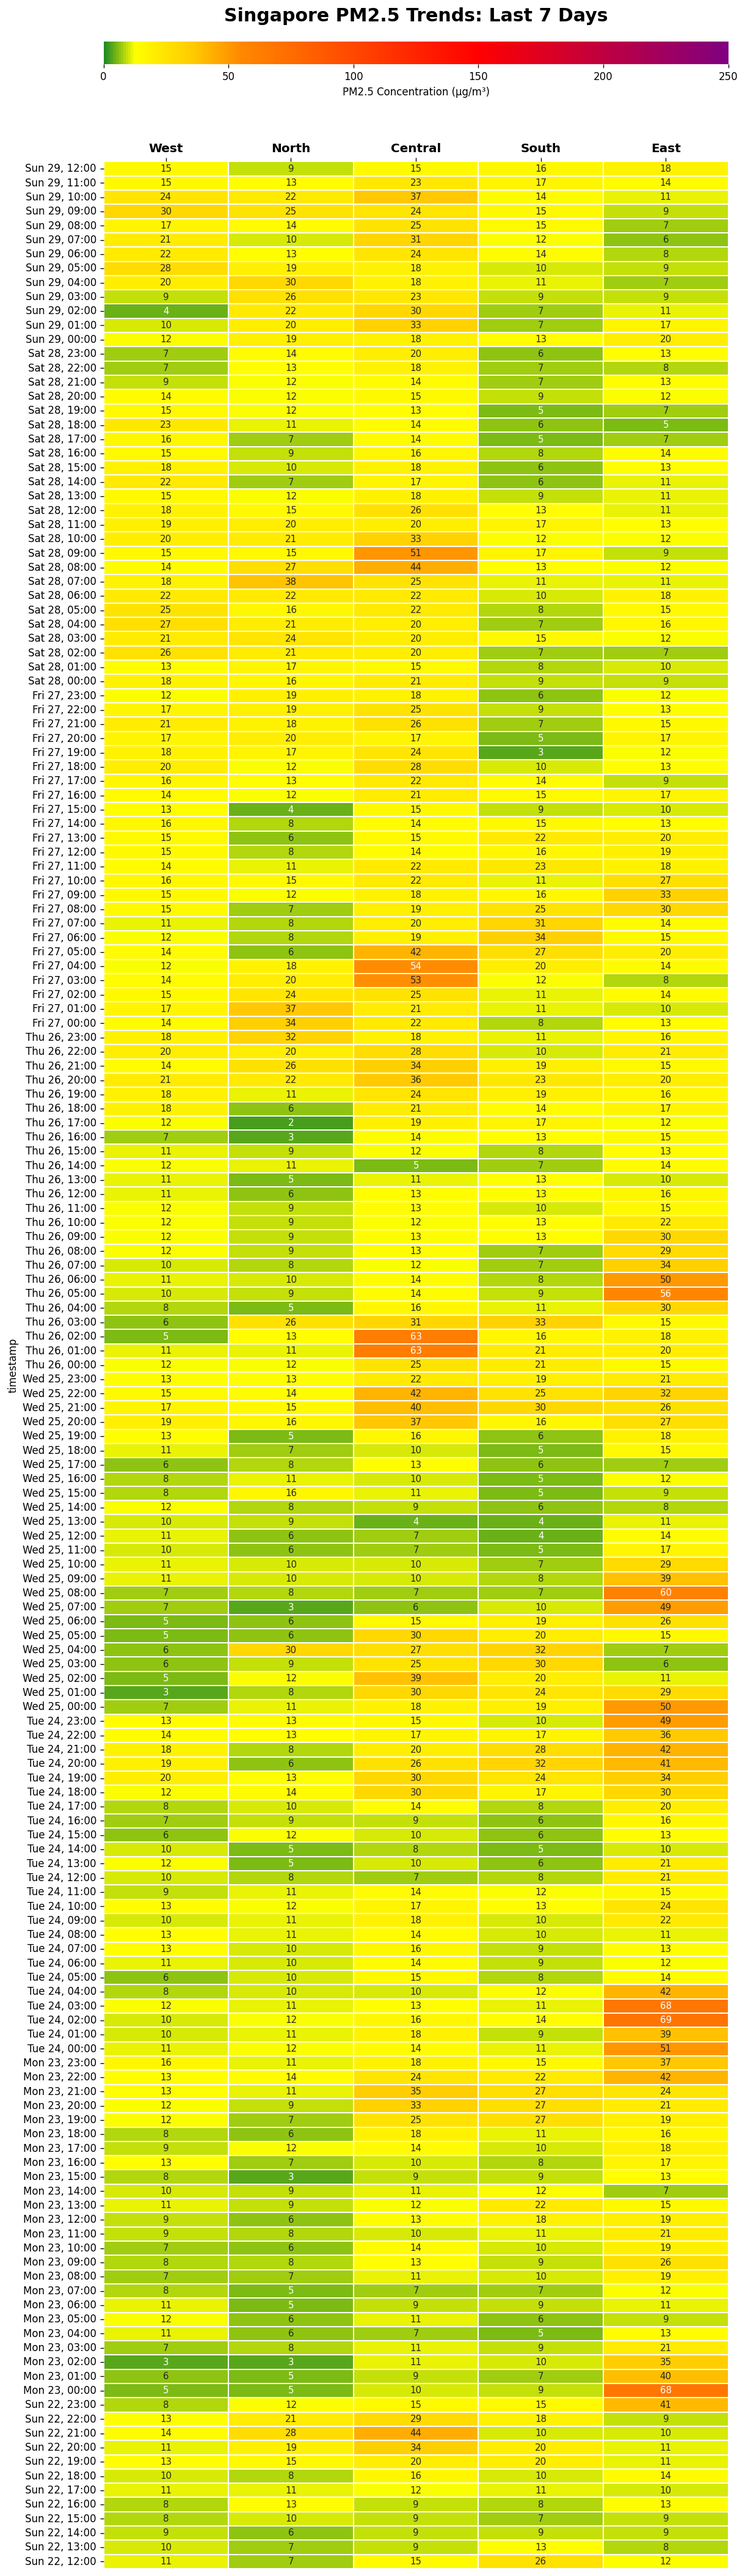
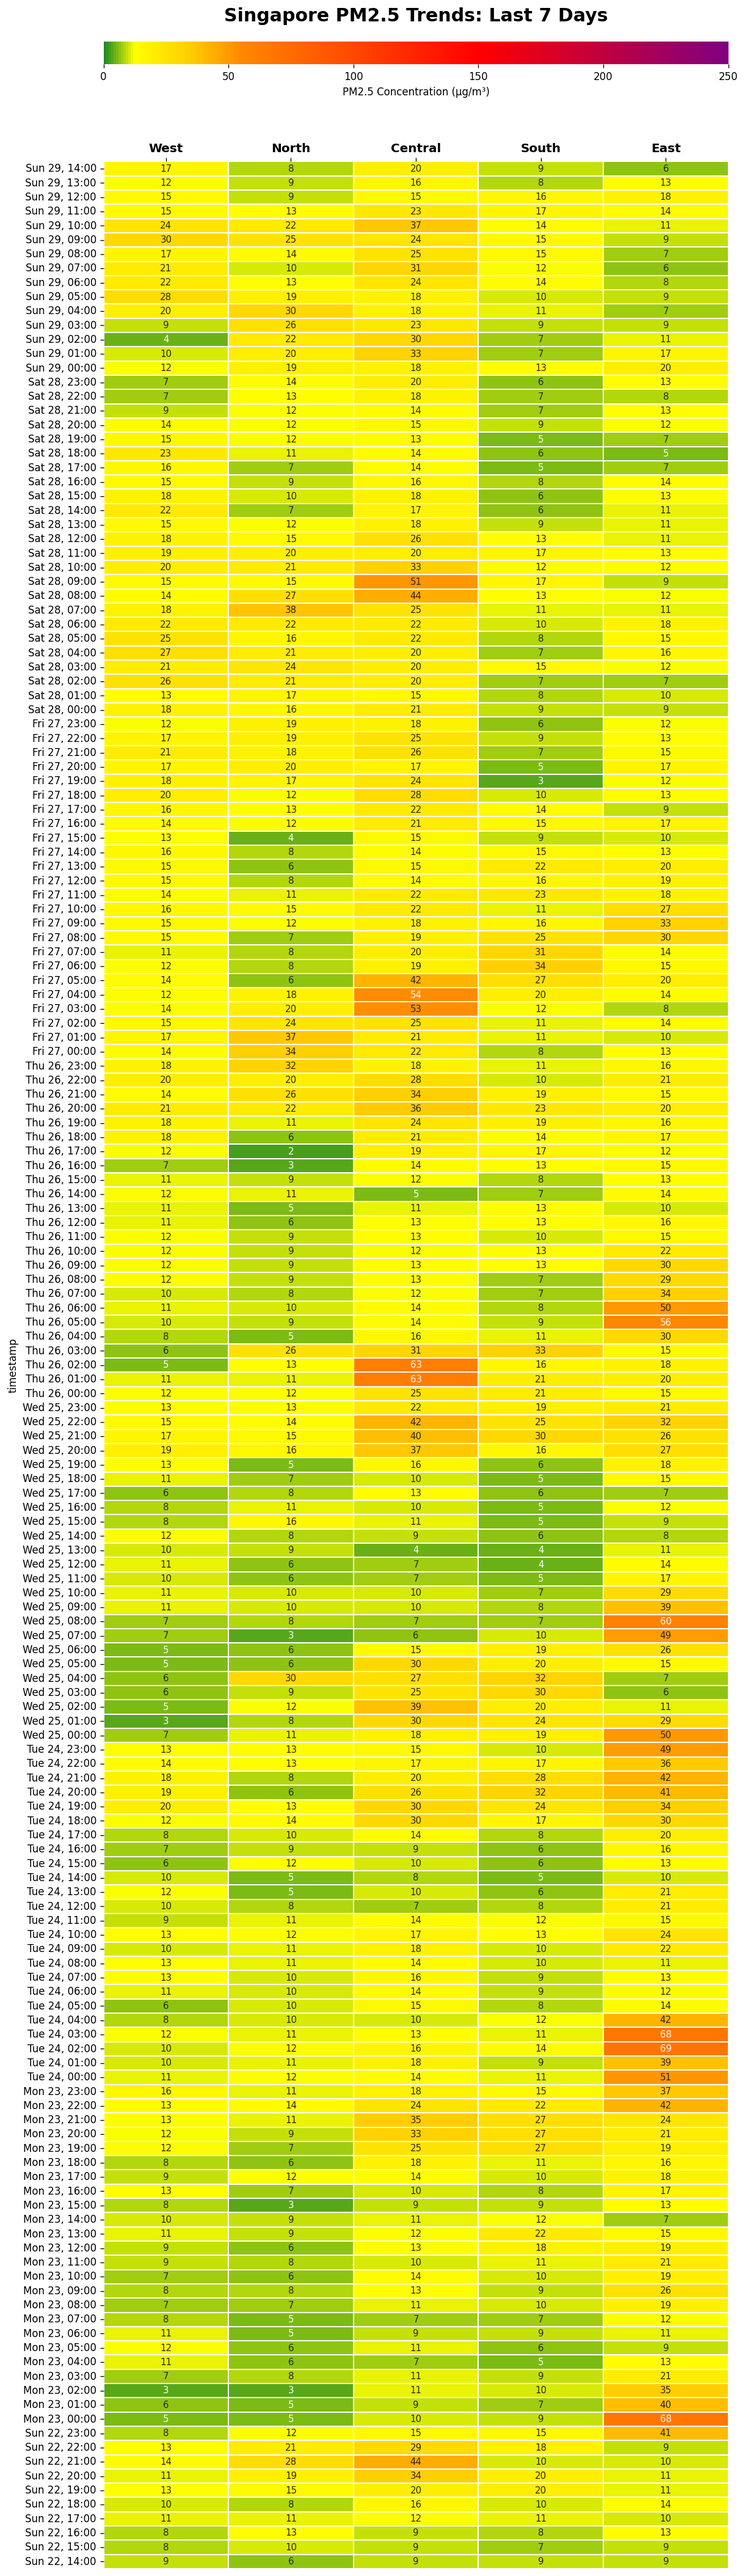
Update sync_and_refresh.yml

diff --git a/index.html b/index.html
@@ -25,10 +25,10 @@
                     <div class="item"><div class="dot" style="background:#FF8800"></div>Unhealthy</div>
                     <div class="item"><div class="dot" style="background:#800080"></div>Hazardous</div>
                 </div>
-                <img src="haze_latest.png?t=1774757335" alt="PM2.5 Heatmap">
+                <img src="haze_latest.png?t=1774766787" alt="PM2.5 Heatmap">
                 <div class="meta">
                     <strong>Source:</strong> data.gov.sg API<br>
-                    <strong>Data Freshness:</strong> 2026-03-29T12:00:36+08:00 (SGT)<br>
+                    <strong>Data Freshness:</strong> 2026-03-29T14:45:42+08:00 (SGT)<br>
                     Generated via GitHub Actions
                 </div>
             </div>
